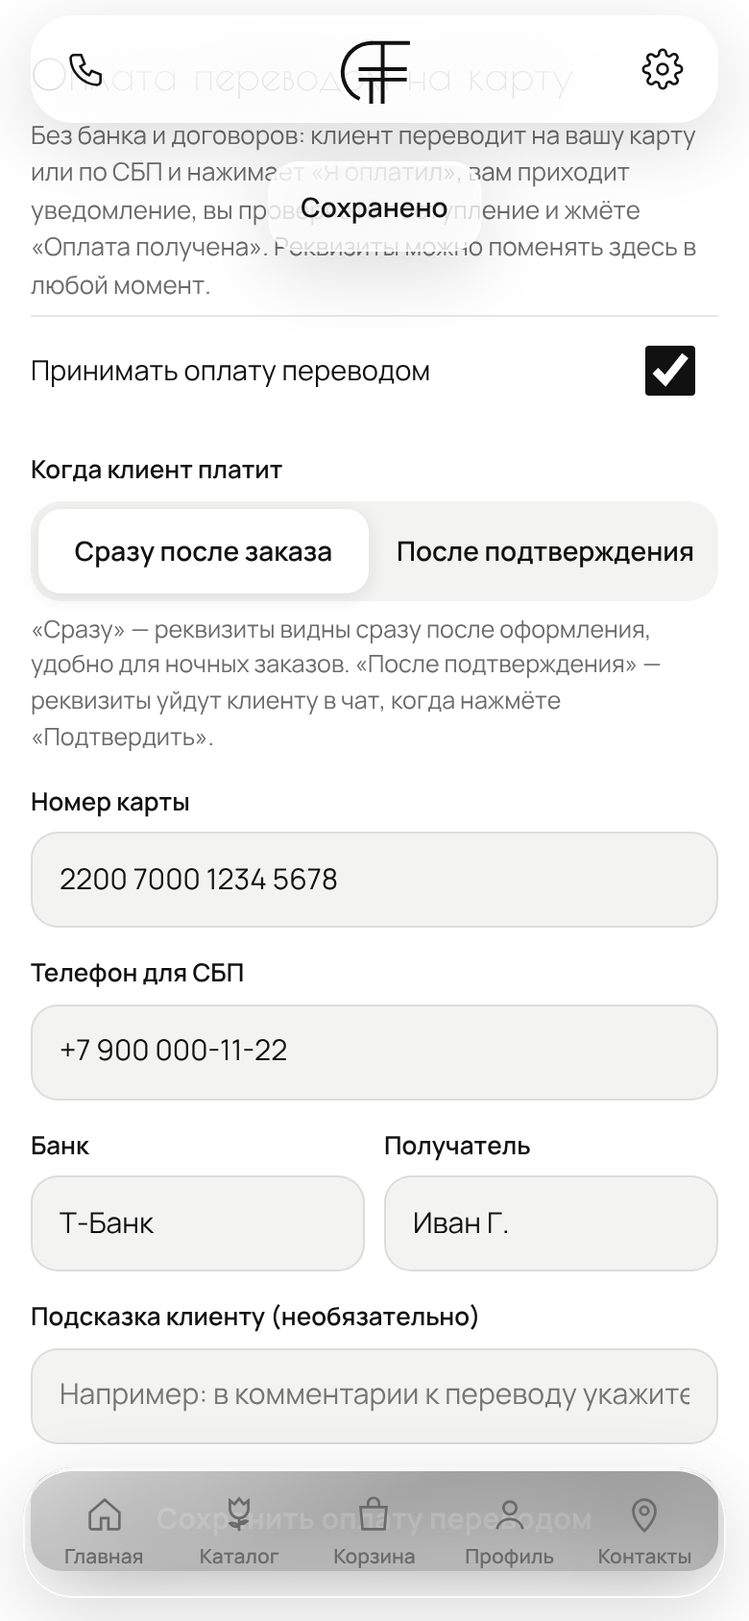
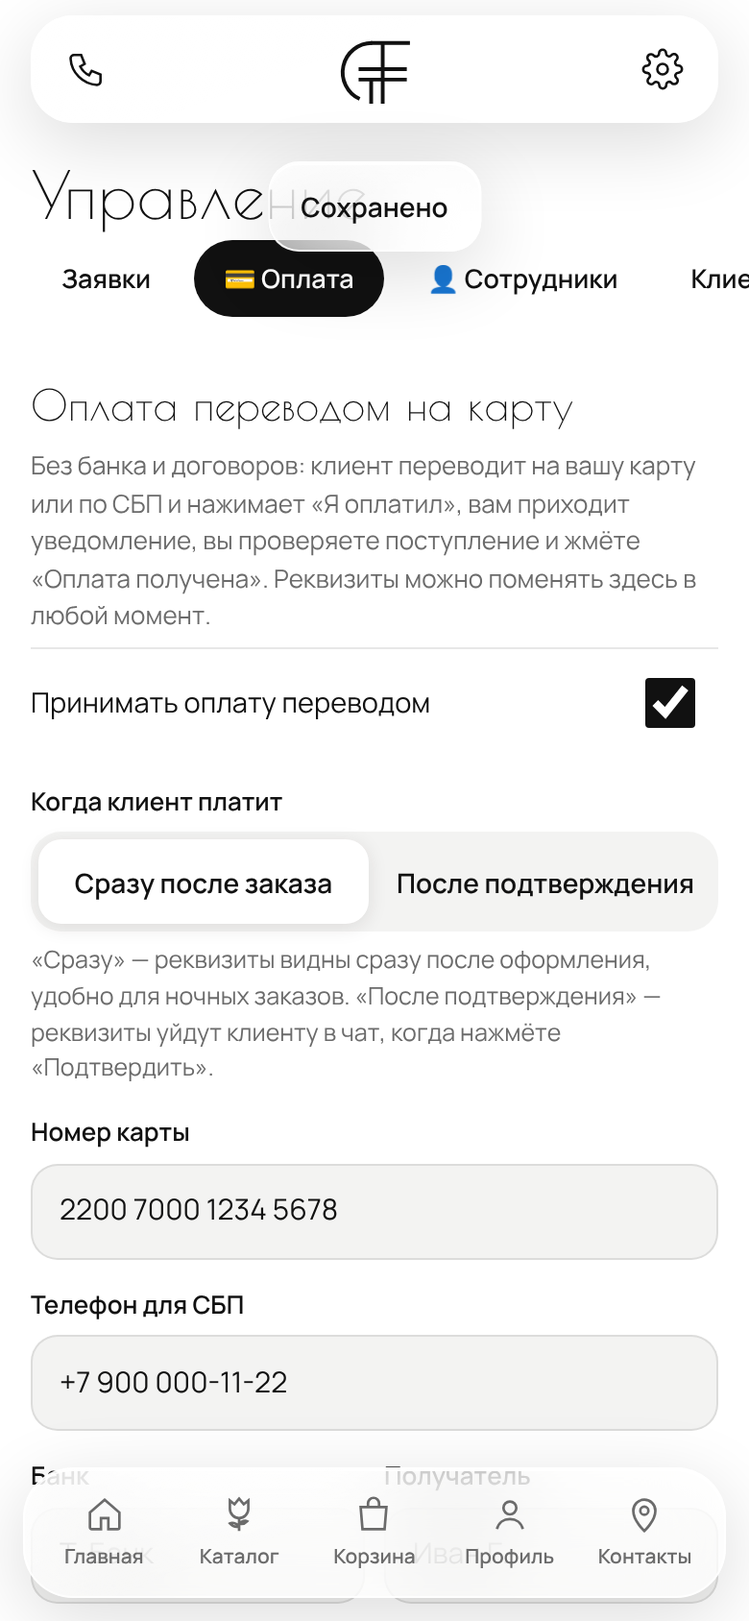
Сотрудники: приглашение менеджера одноразовой ссылкой, роли владелец/менеджер; отдельная вкладка «Оплата»
Claude-Session: https://claude.ai/code/session_013HVBPZtSqSrvDRQkXTFUFM

diff --git a/server/index.js b/server/index.js
@@ -129,8 +129,35 @@ function createApp(opts = {}) {
     return null;
   }
   // Admins: ADMIN_IDS from .env plus the "owner" — the first person who sends /start when nobody is admin yet.
-  const adminList = () => [...config.adminIds, ...((store.getCatalog().settings.ownerIds) || []).map(Number)];
+  const ownerList = () => [...config.adminIds, ...((store.getCatalog().settings.ownerIds) || []).map(Number)];
+  /* Staff: managers invited by the owner with a one-time link (settings.staff). They see orders, customers and the catalog;
+     settings, payment details and the staff list stay with the owner. */
+  const staffList = () => (store.getCatalog().settings.staff || []);
+  const adminList = () => [...ownerList(), ...staffList().map((x) => Number(x.id))];
   const isAdmin = (u) => !!u && adminList().includes(Number(u.id));
+  const isOwner = (u) => !!u && ownerList().includes(Number(u.id));
+  /** A link that opens the bot CHAT with /start <param> (the bot itself must see the invite). */
+  function chatLink(param) {
+    const u = bot && bot.getUsername && bot.getUsername();
+    if (!u) return "";
+    return messenger === "max" ? `https://max.ru/${u}?start=${param}` : `https://t.me/${u}?start=${param}`;
+  }
+  function acceptInvite(from, code) {
+    const S = store.getCatalog().settings;
+    const now = Date.now();
+    S.invites = (S.invites || []).filter((x) => new Date(x.expiresAt).getTime() > now);
+    const inv = S.invites.find((x) => x.code === code);
+    if (!inv) { store.setCatalog(store.getCatalog()); return "\n\n⚠ Ссылка-приглашение уже использована или устарела. Попросите владельца прислать новую."; }
+    S.invites = S.invites.filter((x) => x !== inv);
+    const name = [from.first_name, from.last_name].filter(Boolean).join(" ") || (from.username ? "@" + from.username : "Сотрудник");
+    if (!isAdmin(from)) {
+      S.staff = staffList().concat([{ id: Number(from.id), name, username: from.username || "", role: "manager", notify: true, addedAt: new Date().toISOString() }]);
+    }
+    store.setCatalog(store.getCatalog());
+    const esc = (t) => String(t).replace(/[&<>]/g, (c) => ({ "&": "&amp;", "<": "&lt;", ">": "&gt;" }[c]));
+    for (const oid of ownerList()) sendUser(oid, `👤 <b>${esc(name)}</b> принял(а) приглашение и теперь менеджер: видит заявки и получает их в чат.`).catch(() => {});
+    return `\n\n✅ <b>Вы добавлены в сотрудники ${esc(S.brand || "")}.</b> Заявки будут приходить в этот чат, а в приложении появилась шестерёнка — там заявки, клиенты и товары.`;
+  }
   function claimOwner(from) {
     if (!from || !from.id || adminList().length) return "";
     store.getCatalog().settings.ownerIds = [Number(from.id)];
@@ -139,6 +166,7 @@ function createApp(opts = {}) {
   }
   /** «Начать» in the bot chat: remember the customer (with the link's ref/source), mark the chat as saved. */
   function onBotStart(from, payload = "") {
+    if (from && from.id && /^staff_[a-f0-9]{12}$/.test(payload)) return { text: acceptInvite(from, payload.slice(6)), appPayload: "" };
     const owner = claimOwner(from);
     if (!from || !from.id) return owner;
     const name = [from.first_name, from.last_name].filter(Boolean).join(" ");
@@ -158,7 +186,7 @@ function createApp(opts = {}) {
     const c = store.getCatalog();
     const cats = c.categories.filter((x) => !x.hidden);
     const settings = Object.assign({}, c.settings);
-    delete settings.managerChatIds; delete settings.tildaParts; delete settings.ownerIds; delete settings.webAppUrl;
+    delete settings.managerChatIds; delete settings.tildaParts; delete settings.ownerIds; delete settings.webAppUrl; delete settings.staff; delete settings.invites;
     const L = loyal();
     delete settings.loyalty; delete settings.payments; delete settings.sources; delete settings.transfer;
     return {
@@ -178,7 +206,8 @@ function createApp(opts = {}) {
   async function notify(text) {
     const c = store.getCatalog();
     const ids = new Set([...(c.settings.managerChatIds || []), config.managerChatId].map(String).filter(Boolean));
-    if (!ids.size) ids.add(String(adminList()[0] || ""));
+    if (!ids.size) ids.add(String(ownerList()[0] || ""));
+    for (const x of staffList()) if (x.notify !== false) ids.add(String(x.id));
     const results = [];
     for (const id of ids) {
       if (!id || !bot) continue;
@@ -208,10 +237,10 @@ function createApp(opts = {}) {
   }
 
   const routes = [];
-  const on = (method, pattern, handler, { admin = false, raw = false } = {}) => {
+  const on = (method, pattern, handler, { admin = false, owner = false, raw = false } = {}) => {
     const keys = [];
     const re = new RegExp("^" + pattern.replace(/:(\w+)/g, (_, k) => (keys.push(k), "([^/]+)")) + "$");
-    routes.push({ method, re, keys, handler, admin, raw });
+    routes.push({ method, re, keys, handler, admin: admin || owner, owner, raw });
   };
 
   /* ---------- public ---------- */
@@ -232,7 +261,7 @@ function createApp(opts = {}) {
       if (st.gift && findGift(st.gift)) start.gift = st.gift;
       if (st.paid) start.paid = st.paid;
     }
-    return { isAdmin: isAdmin(user), platform: messenger, startParam: user ? user.startParam || "" : "", start, user: user ? { id: user.id, first_name: user.first_name } : null };
+    return { isAdmin: isAdmin(user), isOwner: isOwner(user), platform: messenger, startParam: user ? user.startParam || "" : "", start, user: user ? { id: user.id, first_name: user.first_name } : null };
   });
 
   /* ---------- profile ---------- */
@@ -466,7 +495,7 @@ function createApp(opts = {}) {
     return out;
   }
 
-  on("GET", "/api/admin/catalog", () => Object.assign({}, store.getCatalog(), { loyaltyResolved: loyal(), paymentsResolved: paySettings(), transferResolved: transferSettings(), env: { yookassa: !!(process.env.YOOKASSA_SHOP_ID && process.env.YOOKASSA_SECRET_KEY) } }), { admin: true });
+  on("GET", "/api/admin/catalog", ({ user }) => Object.assign({}, store.getCatalog(), isOwner(user) ? {} : { settings: Object.assign({}, store.getCatalog().settings, { transfer: undefined, staff: undefined, invites: undefined }) }, { loyaltyResolved: loyal(), paymentsResolved: paySettings(), transferResolved: isOwner(user) ? transferSettings() : null, env: { yookassa: !!(process.env.YOOKASSA_SHOP_ID && process.env.YOOKASSA_SECRET_KEY) } }), { admin: true });
   on("GET", "/api/admin/orders", () => ({ orders: store.getOrders().list.slice(-200).reverse().map((o) => ({ ...o, summary: summaryText(o) })) }), { admin: true });
   on("PATCH", "/api/admin/orders/:id", ({ params, body }) => {
     const o = store.getOrders().list.find((x) => String(x.id) === params.id);
@@ -685,7 +714,44 @@ function createApp(opts = {}) {
     }
     store.setCatalog(store.getCatalog());
     return { ok: true };
-  }, { admin: true });
+  }, { owner: true });
+  /* ---------- admin: staff ---------- */
+  function staffView() {
+    const S = store.getCatalog().settings, cust = custDb().list, now = Date.now();
+    const owners = ownerList().map((id) => { const c = cust[String(id)]; return { id, name: (c && c.name) || "Владелец", username: (c && c.username) || "", role: "owner" }; });
+    return { owners, staff: staffList(), invites: (S.invites || []).filter((x) => new Date(x.expiresAt).getTime() > now).map((x) => ({ code: x.code, expiresAt: x.expiresAt, link: chatLink("staff_" + x.code) })) };
+  }
+  on("GET", "/api/admin/staff", () => staffView(), { owner: true });
+  on("POST", "/api/admin/staff/invite", () => {
+    const S = store.getCatalog().settings;
+    if (!chatLink("x")) throw httpError(400, "Бот ещё не подключён — пригласить не получится");
+    const now = Date.now();
+    S.invites = (S.invites || []).filter((x) => new Date(x.expiresAt).getTime() > now).slice(-9);
+    const inv = { code: crypto.randomBytes(6).toString("hex"), expiresAt: new Date(now + 864e5).toISOString() };
+    S.invites.push(inv); store.setCatalog(store.getCatalog());
+    return Object.assign(staffView(), { link: chatLink("staff_" + inv.code) });
+  }, { owner: true });
+  on("PATCH", "/api/admin/staff/:id", ({ params, body }) => {
+    const x = staffList().find((m) => String(m.id) === params.id);
+    if (!x) throw httpError(404, "Сотрудник не найден");
+    if ("notify" in body) x.notify = !!body.notify;
+    store.setCatalog(store.getCatalog());
+    return staffView();
+  }, { owner: true });
+  on("DELETE", "/api/admin/staff/:id", ({ params }) => {
+    const S = store.getCatalog().settings;
+    if (!staffList().some((m) => String(m.id) === params.id)) throw httpError(404, "Сотрудник не найден");
+    S.staff = staffList().filter((m) => String(m.id) !== params.id);
+    store.setCatalog(store.getCatalog());
+    sendUser(params.id, `Доступ к управлению ${S.brand || "магазином"} закрыт владельцем.`).catch(() => {});
+    return staffView();
+  }, { owner: true });
+  on("DELETE", "/api/admin/staff/invite/:code", ({ params }) => {
+    const S = store.getCatalog().settings;
+    S.invites = (S.invites || []).filter((x) => x.code !== params.code);
+    store.setCatalog(store.getCatalog());
+    return staffView();
+  }, { owner: true });
   on("GET", "/api/admin/stats", () => report(store.getStats(), store.getCatalog()), { admin: true });
   on("POST", "/api/admin/import", async () => {
     const c = store.getCatalog();
@@ -774,6 +840,7 @@ function createApp(opts = {}) {
       const params = Object.fromEntries(route.keys.map((k, i) => [k, decodeURIComponent(m[i + 1])]));
       const user = userFrom(req);
       if (route.admin && !isAdmin(user)) throw httpError(403, "Нет доступа к управлению");
+      if (route.owner && !isOwner(user)) throw httpError(403, "Это может только владелец");
       const body = req.method === "GET" ? {} : route.raw ? await readRaw(req, MAX_UPLOAD) : await readBody(req);
       const ip = (req.headers["x-forwarded-for"] || req.socket.remoteAddress || "").split(",")[0].trim();
       const data = await route.handler({ params, body, user, ip, query: url.searchParams });

diff --git a/public/app.js b/public/app.js
@@ -641,6 +641,7 @@
       else if (tab === "customers") data = await api(`/api/admin/customers?segment=${encodeURIComponent(state.admin.segment)}&q=${encodeURIComponent(state.admin.cq)}`);
       else if (tab === "promo") data = await api("/api/admin/sources");
       else if (tab.startsWith("customer/")) data = await api(`/api/admin/customers/${encodeURIComponent(tab.slice(9))}`);
+      else if (tab === "staff") data = await api("/api/admin/staff");
       else if (tab === "broadcast") {
         const [h, ...counts] = await Promise.all([api("/api/admin/broadcasts"), ...["all", "regular", "new", "sleeping"].map((sg) => api("/api/admin/broadcast/preview?segment=" + sg))]);
         data = { list: h.list, counts: { all: counts[0].count, regular: counts[1].count, new: counts[2].count, sleeping: counts[3].count } };
@@ -653,18 +654,19 @@
     render();
   }
   function adminTabs(active) {
-    const tabs = [["orders", "Заявки"], ["customers", "Клиенты"], ["broadcast", "Рассылки"], ["promo", "Ссылки и QR"], ["loyalty", "Бонусы и оплата"], ["products", "Товары"], ["categories", "Категории"], ["extras", "Допы и промо"], ["settings", "Настройки"], ["stats", "Статистика"]];
+    const owner = !!state.me.isOwner;
+    const tabs = [["orders", "Заявки"], owner && ["pay", "💳 Оплата"], owner && ["staff", "👤 Сотрудники"], ["customers", "Клиенты"], ["products", "Товары"], ["categories", "Категории"], ["extras", "Допы и промо"], ["broadcast", "Рассылки"], ["promo", "Ссылки и QR"], owner && ["loyalty", "Бонусы"], owner && ["settings", "Настройки"], ["stats", "Статистика"]].filter(Boolean);
     return `<div class="admin-tabs">${tabs.map(([k, t]) => `<button class="chip" aria-pressed="${k === active}" data-action="adminTab" data-tab="${k}">${t}</button>`).join("")}</div>`;
   }
   function viewAdmin(tab, arg) {
     if (!state.me.isAdmin) return `<div class="page empty"><h1 class="display">Нет доступа</h1><p>Панель управления видна только администраторам.</p></div>`;
-    const key = tab === "customer" ? "customer/" + arg : tab;
+    const key = tab === "customer" ? "customer/" + arg : tab === "pay" ? "loyalty" : tab;
     const fresh = state.admin.tab === key && state.admin.data;
     if (!fresh && state.admin.loadingTab !== key) setTimeout(() => loadAdmin(key));
     const d = fresh ? state.admin.data : null;
     let body = `<p class="muted">Загружаем…</p>`;
     if (d && d.error) body = `<p class="err">${esc(d.error)}</p>`;
-    else if (d) body = ({ orders: adminOrders, products: adminProducts, categories: adminCategories, extras: adminExtras, settings: adminSettings, stats: adminStats, edit: adminEdit, customers: adminCustomers, customer: adminCustomer, broadcast: adminBroadcast, loyalty: adminLoyalty, promo: adminPromo }[tab] || adminOrders)(d, arg);
+    else if (d) body = ({ pay: adminTransfer, staff: adminStaff, orders: adminOrders, products: adminProducts, categories: adminCategories, extras: adminExtras, settings: adminSettings, stats: adminStats, edit: adminEdit, customers: adminCustomers, customer: adminCustomer, broadcast: adminBroadcast, loyalty: adminLoyalty, promo: adminPromo }[tab] || adminOrders)(d, arg);
     return `<div class="page"><h1 class="display" style="font-size:34px;margin-top:8px">Управление</h1>${tab === "edit" || tab === "customer" ? "" : adminTabs(tab)}${body}</div>`;
   }
   function payBadge(o) {
@@ -939,7 +941,22 @@
       <input type="hidden" name="provider" value="${esc(P.provider)}">
       <p class="muted" style="font-size:12.5px;margin-top:8px">${P.provider === "demo" ? "Демо: оплата без настоящих денег — чтобы показать, как это работает." : d.env.yookassa ? "ЮKassa подключена. Деньги приходят прямо на счёт магазина. Адрес для уведомлений в кабинете ЮKassa: …/api/pay/yookassa" : "ЮKassa не подключена: ключи магазина (YOOKASSA_SHOP_ID и YOOKASSA_SECRET_KEY) добавляются в настройки сервера."}</p>
       <button class="btn block" type="submit" style="margin-top:16px">Сохранить</button></form>
-      ${adminTransfer(d)}`;
+      <p class="muted" style="font-size:12.5px;margin-top:12px">Оплата переводом на карту — во вкладке «💳 Оплата».</p>`;
+  }
+  function adminStaff(d) {
+    const dt = (iso) => new Intl.DateTimeFormat("ru-RU", { timeZone: TZ, day: "2-digit", month: "2-digit", hour: "2-digit", minute: "2-digit" }).format(new Date(iso));
+    return `<p class="muted" style="font-size:13.5px;margin-top:0">Менеджеры видят заявки, клиентов и товары и получают заявки в чат с ботом. Настройки, оплату и сотрудников меняет только владелец.</p>
+      <button class="btn block" data-action="staffInvite">+ Пригласить менеджера</button>
+      ${state.admin.inviteLink ? `<div class="info-card" style="margin-top:12px"><p><b>Ссылка-приглашение готова</b></p>
+        <p class="muted" style="font-size:13px;margin-top:4px">Отправьте её сотруднику. Он откроет её и нажмёт «Старт» — и сразу станет менеджером. Ссылка одноразовая, действует сутки.</p>
+        <div class="src-link" style="margin-top:8px">${esc(state.admin.inviteLink)}</div>
+        <div style="display:flex;gap:8px;margin-top:10px"><button class="btn small" data-action="shareInvite">Отправить</button><button class="btn soft small" data-action="copyText" data-text="${esc(state.admin.inviteLink)}">Скопировать</button></div></div>` : ""}
+      <h2 class="h2" style="font-size:22px">Кто имеет доступ</h2>
+      ${d.owners.map((o) => `<div class="cust-row"><span class="av">${esc((o.name || "?").slice(0, 1))}</span><span class="mid"><b>${esc(o.name)}</b><small>${o.username ? "@" + esc(o.username) : "ID " + esc(String(o.id))}</small></span><span class="rt"><span class="seg-badge seg-regular">Владелец</span></span></div>`).join("")}
+      ${d.staff.map((m) => `<div class="cust-row"><span class="av">${esc((m.name || "?").slice(0, 1))}</span><span class="mid"><b>${esc(m.name)}</b><small>${m.username ? "@" + esc(m.username) + " · " : ""}менеджер с ${ddmm(m.addedAt)}</small>
+        <label class="check" style="margin:6px 0 0;font-size:12.5px"><input type="checkbox" data-action="staffNotify" data-id="${esc(String(m.id))}" ${m.notify !== false ? "checked" : ""}>Получает заявки в чат</label></span>
+        <span class="rt"><button class="btn ghost small" data-action="staffRemove" data-id="${esc(String(m.id))}" data-name="${esc(m.name)}">Убрать</button></span></div>`).join("") || `<p class="muted">Менеджеров пока нет.</p>`}
+      ${d.invites.length ? `<h2 class="h2" style="font-size:22px">Неиспользованные приглашения</h2>${d.invites.map((x) => `<div class="addon"><span class="t">Действует до ${dt(x.expiresAt)}</span><span class="p"><button class="btn ghost small" data-action="copyText" data-text="${esc(x.link)}">Скопировать</button> <button class="icon-x" data-action="inviteDel" data-code="${esc(x.code)}" aria-label="Отменить">×</button></span></div>`).join("")}` : ""}`;
   }
   function adminTransfer(d) {
     const T = d.transferResolved || {};
@@ -1080,6 +1097,20 @@
       if (tg && tg.showConfirm) tg.showConfirm(q, (yes) => yes && go()); else if (window.confirm(q)) go();
       return;
     }
+    if (act === "staffInvite") {
+      const r = await adminCall("/api/admin/staff/invite", "POST", {}, null);
+      if (r) { state.admin.inviteLink = r.link; state.admin.data = r; state.admin.tab = "staff"; render(); }
+      return;
+    }
+    if (act === "shareInvite") return shareLink(`Приглашение в управление ${state.catalog.settings.brand}: откройте ссылку и нажмите «Старт»`, state.admin.inviteLink);
+    if (act === "staffNotify") { await adminCall(`/api/admin/staff/${ds.id}`, "PATCH", { notify: el.checked }, "staff"); return; }
+    if (act === "staffRemove") {
+      const go = () => adminCall(`/api/admin/staff/${ds.id}`, "DELETE", null, "staff").then((r) => r && toast("Доступ закрыт"));
+      const q = `Убрать ${ds.name} из сотрудников? Доступ к управлению и заявкам пропадёт сразу.`;
+      if (tg && tg.showConfirm) tg.showConfirm(q, (yes) => yes && go()); else if (window.confirm(q)) go();
+      return;
+    }
+    if (act === "inviteDel") { await adminCall(`/api/admin/staff/invite/${ds.code}`, "DELETE", null, "staff"); return; }
     if (act === "addZone") { $app.querySelector("[data-zones]").insertAdjacentHTML("beforeend", zoneRow()); const r = $app.querySelectorAll(".zone-row"); r[r.length - 1].querySelector("input").focus(); return; }
     if (act === "delZone") { el.closest(".zone-row").remove(); return; }
     if (act === "photoDel") { el.closest(".photo-tile").remove(); return; }

diff --git a/mock/e2e-gagulya.js b/mock/e2e-gagulya.js
@@ -22,7 +22,7 @@ const BRIDGE_STUB = `(function(){
 (async () => {
   const dataDir = fs.mkdtempSync(path.join(os.tmpdir(), 'gag-e2e-'));
   const sent = [], photos = [];
-  const bot = { sendMessage: async (chat, text) => { sent.push({ chat: String(chat), text }); }, sendPhotos: async (chat, urls, caption) => { photos.push({ chat, urls, caption }); }, setWebAppUrl() {} };
+  const bot = { sendMessage: async (chat, text) => { sent.push({ chat: String(chat), text }); }, sendPhotos: async (chat, urls, caption) => { photos.push({ chat, urls, caption }); }, setWebAppUrl() {}, getUsername: () => 'gagulya_flowers_bot' };
   const app = createApp({ messenger: 'max', botToken: TOKEN, adminIds: '', dataDir, bot, seedFile: path.join(__dirname, '..', 'seed', 'gagulya.seed.json'), log: { error: console.error, log() {} } });
   await new Promise((r) => app.server.listen(0, '127.0.0.1', r));
   const base = `http://127.0.0.1:${app.server.address().port}`;
@@ -118,12 +118,27 @@ const BRIDGE_STUB = `(function(){
   console.log('product photos after upload:', g2.images);
   console.log('uploaded file served:', (await fetch(base + g2.images[1])).status);
   // owner edits card
-  await p2.goto(base + '/#/admin/loyalty'); await p2.waitForSelector('form[data-form=transfer]');
-  await p2.locator('form[data-form=transfer]').scrollIntoViewIfNeeded(); await snap(p2, '08-admin-transfer');
+  await p2.goto(base + '/#/admin/pay'); await p2.waitForSelector('form[data-form=transfer]');
+  console.log('owner tabs:', (await p2.locator('.admin-tabs .chip').allInnerTexts()).join(' | '));
+  await snap(p2, '08-admin-transfer');
   await p2.fill('[name=tCard]', '5536 9100 0000 0000'); await p2.click('[data-action=tMode][data-m=after]');
   await p2.click('text=Сохранить оплату переводом'); await p2.waitForTimeout(600);
   console.log('transfer saved:', JSON.stringify(app.store.getCatalog().settings.transfer));
 
+  // staff: invite a manager
+  await p2.goto(base + '/#/admin/staff'); await p2.waitForSelector('[data-action=staffInvite]');
+  await p2.click('[data-action=staffInvite]'); await p2.waitForSelector('.src-link');
+  const link = await p2.locator('.src-link').innerText();
+  console.log('invite link:', link);
+  console.log('accept:', app.onBotStart({ id: 55, first_name: 'Маша' }, link.split('start=')[1]).text.trim().split('\n')[0]);
+  await p2.goto(base + '/#/admin/orders'); await p2.goto(base + '/#/admin/staff'); await p2.waitForSelector('[data-action=staffRemove]');
+  await snap(p2, '12-admin-staff');
+  // the manager sees fewer tabs
+  const pm = await page(ctx);
+  await pm.goto(base + '/' + launch(55)); await pm.waitForSelector('.hero');
+  await pm.waitForFunction(() => document.getElementById('topRight').getAttribute('aria-label') === 'Управление', null, { timeout: 5000 });
+  await pm.goto(base + '/#/admin/orders'); await pm.waitForSelector('.admin-tabs');
+  console.log('manager tabs:', (await pm.locator('.admin-tabs .chip').allInnerTexts()).join(' | '));
   // dark theme
   const ctxD = await mk('dark');
   const p3 = await page(ctxD);

diff --git a/test/gagulya.test.js b/test/gagulya.test.js
@@ -246,3 +246,50 @@ test("Telegram build of the same shop: order and transfer work with a Telegram s
   assert.equal(r.data.transfer.amount, 3900 + 400);
   app.server.close();
 });
+
+test("staff: owner invites a manager by a one-time link; manager sees orders, not settings; owner can remove", async () => {
+  const { app, url, sent } = await startApp();
+  app.bot.getUsername = () => "gagulya_flowers_bot";
+  const MAN = asUser(55);
+  // only the owner can invite
+  assert.equal((await req(url + "/api/admin/staff/invite", "POST", {}, MAN)).status, 403);
+  const inv = await req(url + "/api/admin/staff/invite", "POST", {}, ADMIN);
+  assert.equal(inv.status, 200);
+  const m = /\?start=staff_([a-f0-9]{12})$/.exec(inv.data.link);
+  assert.ok(m, inv.data.link);
+  assert.match(inv.data.link, /^https:\/\/max\.ru\/gagulya_flowers_bot\?start=staff_/);
+  // the manager opens the link → «Старт» in the bot
+  const res = app.onBotStart({ id: 55, first_name: "Маша" }, "staff_" + m[1]);
+  assert.match(res.text, /Вы добавлены в сотрудники/);
+  await wait();
+  assert.ok(sent.find((x) => x.chat === "100" && /Маша.*менеджер/.test(x.text)), "owner is told");
+  // one-time: the second use fails
+  assert.match(app.onBotStart({ id: 56, first_name: "Петя" }, "staff_" + m[1]).text, /устарела/);
+  const me = (await req(url + "/api/me", "GET", null, MAN)).data;
+  assert.deepEqual([me.isAdmin, me.isOwner], [true, false]);
+  assert.equal((await req(url + "/api/admin/orders", "GET", null, MAN)).status, 200);
+  assert.equal((await req(url + "/api/admin/settings", "PUT", { phone: "1" }, MAN)).status, 403);
+  assert.equal((await req(url + "/api/admin/staff", "GET", null, MAN)).status, 403);
+  app.store.getCatalog().settings.transfer = TRANSFER;
+  const cat = (await req(url + "/api/admin/catalog", "GET", null, MAN)).data;
+  assert.equal(cat.transferResolved, null);
+  assert.equal(cat.settings.transfer, undefined);
+  // new orders go to the owner and to the manager
+  sent.length = 0;
+  await req(url + "/api/orders", "POST", order(), asUser(7));
+  await wait();
+  assert.ok(sent.find((x) => x.chat === "100" && /Новая заявка/.test(x.text)));
+  assert.ok(sent.find((x) => x.chat === "55" && /Новая заявка/.test(x.text)));
+  // owner turns off notifications for the manager, then removes them
+  await req(url + "/api/admin/staff/55", "PATCH", { notify: false }, ADMIN);
+  sent.length = 0;
+  await req(url + "/api/orders", "POST", order(), asUser(8));
+  await wait();
+  assert.ok(!sent.find((x) => x.chat === "55" && /Новая заявка/.test(x.text)));
+  const del = await req(url + "/api/admin/staff/55", "DELETE", null, ADMIN);
+  assert.equal(del.data.staff.length, 0);
+  assert.equal((await req(url + "/api/admin/orders", "GET", null, MAN)).status, 403);
+  // staff ids never leak into the public catalog
+  assert.doesNotMatch(JSON.stringify((await req(url + "/api/catalog", "GET")).data), /invites|"staff"/);
+  app.server.close();
+});
